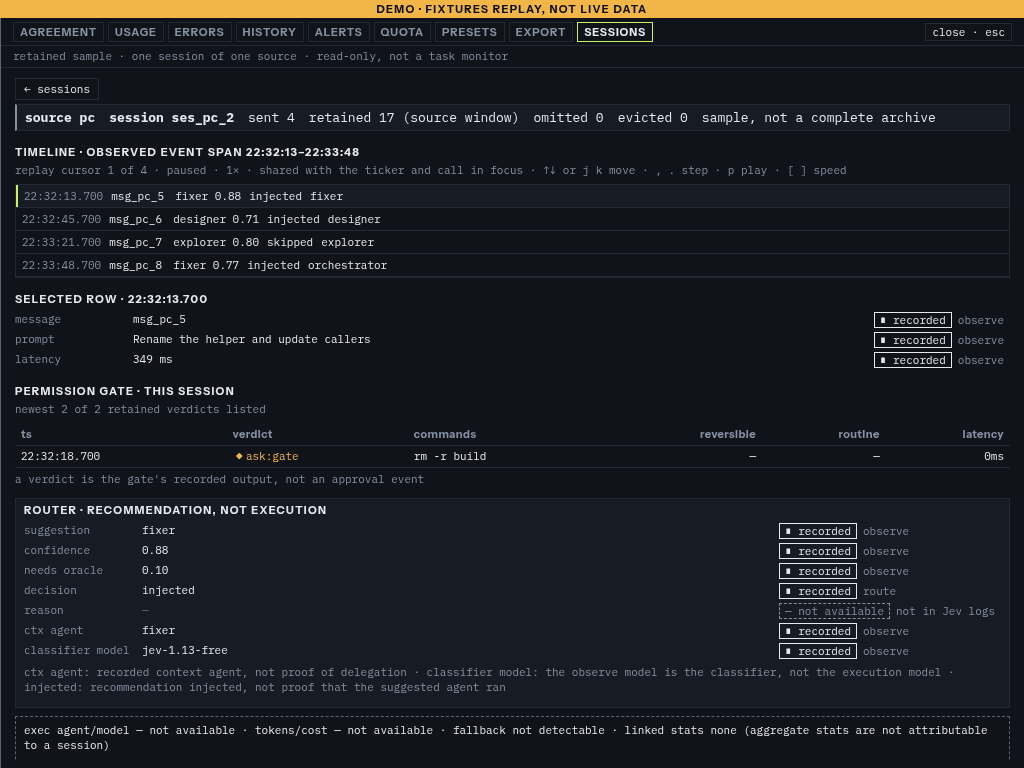
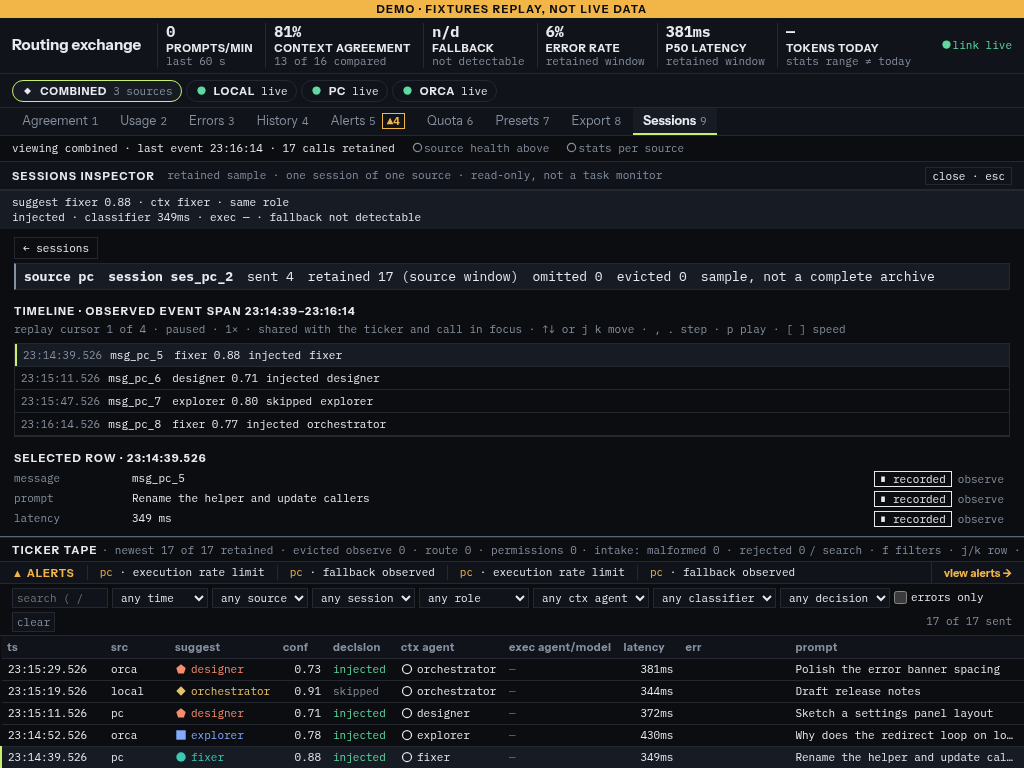
docs: Sessions inspector keeps the chrome visible; recapture m43 (#43)
Remove the covering-header deviation, record measured stage-panel geometry and
the reverted drawer widths, replace the m43-* captures.

diff --git a/docs/DESIGN.md b/docs/DESIGN.md
@@ -138,14 +138,14 @@ Status: **approved contract (maintainer decisions of 2026-11-08 in #41), impleme
 
 | Element | 1440×900 | 1024×768 |
 | --- | --- | --- |
-| Placement | the existing right-side overlay mechanism (same open/close, `Esc`, focus return), in its wide form | same mechanism, full stage width |
+| Placement | a panel laid over the stage only (below the chrome, above the ticker); same open/close, `Esc`, focus return | same, full stage width |
 | Panes | two: list ~280 px proposed (**440 px implemented**), detail the rest | one at a time: list, then detail with a `← sessions` back control; `Esc` goes detail → list → close |
 | Chrome kept | DEMO band, header, source bar, views nav, scope strip and ticker stay visible and unchanged | same |
 | Scope header | 2 lines max, 11 px caps labels + 13 px values | 3 lines max; wraps, never truncates counts |
 | Row height | 22 px (timeline and list) | 22 px |
 | Overflow | list and detail scroll inside the panel; long session strings scroll horizontally, not ellipsis | same |
 
-The 640–720 px overlay width recorded in the M4 review does not fit two panes; the wide form is `min(1160px, 100vw)` (measured, see below). If it does not fit at 1024×768 without clipping a count, the single-pane rule above is the fallback, not a smaller font (floor stays 11 px).
+The 640–720 px drawer width recorded in the M4 review does not fit two panes, so the inspector is not a drawer: it takes the full stage width (measured, see below). If it does not fit at 1024×768 without clipping a count, the single-pane rule above is the fallback, not a smaller font (floor stays 11 px).
 
 ### Navigation decision (calculated from fonts and CSS; browser-measured in #43, see below)
 
@@ -222,11 +222,12 @@ This is a drawing in text, not a capture. Labelled DEMO mockups or screenshots r
 Measured with Playwright 1.64.1 driving `/usr/bin/chromium` 155 against `scripts/demo-exchange.ts` (anonymized fixtures, three sources, Alerts badge active as `▲4`) at 1440×900 and 1024×768, reduced motion on. Captures: `docs/screenshots/m43-{nav-alerts,sessions-list,sessions-detail,sessions-detail-lower,sessions-entry-s}-{1440x900,1024x768}.png`, reviewed against this file.
 
 - **Nav fit (the condition of the ninth-tab decision):** nine tabs sit on one row (no wrapping), the row's `scrollWidth` equals its `clientWidth` (1440 and 1024), the last tab's right edge is at **714 px** with the Alerts badge active, and the row stays 28 px. This is below the ≈ 745 px estimate, so the font arithmetic was conservative. The no-tab fallback is not needed.
-- **Overlay:** `#drawer-sessions` is `min(1160px, 100vw)` above 1280 px and `100vw` at 1280 px and below. At 1440 it is two panes: list **440 px** (not ~280: a 22 px row must hold source, session, first–last time, sent, error mark and permission count in words, and 280 px clipped them), detail 703 px. At 1024 one pane at a time with the `← sessions` back control. The single-pane switch is at **1280 px**, the existing narrow tier, not at 1024 only.
-- **Rows:** list and timeline rows measured 22 px, no clipped row content in the list, no horizontal overflow in the detail pane or the timeline. The scope header measured 2 lines at 1440 and 1 line at 1024 with DEMO data (budget 2 / 3); it wraps and never truncates counts. Long session strings scroll horizontally inside the list cell and wrap in the scope header.
-- **Drawer tabs and standard drawer width (changed from M4):** nine tabs share the drawer header with the close control. Measured: the strip needs 686 px at 1440 and 656 px at 1024. The M4 widths (720 px, 700 px at ≤1280) left 596 / 576 px and hid the last tabs behind a horizontal scroll, so **all standard drawers are now 810 px (780 px at ≤1280)**; the tab strip fits without scrolling in every drawer at both sizes (`scrollWidth` = `clientWidth`) and keeps horizontal scroll only as a fallback. This supersedes "640–720 px wide" in the M4 review for the Agreement, Usage, Errors, History, Alerts, Quota, Presets and Export drawers; their content is unchanged.
-- **Overlay geometry deviation:** the inspector reuses the existing drawer mechanism, which is a full-height right panel. While it is open it covers the right part of the header readouts and nav (and, at 1280 px and below, all of them), so the "Chrome kept" row of the layout table is **not** met literally: only the DEMO band and the left rail stay visible at 1440. The drawer's own tabs, `Esc` and the nav keys remain the way to switch views. Whether the inspector should instead sit below the chrome and above the ticker is an open question for the maintainer.
-- **Keyboard:** `Esc` goes detail → list → close with focus returning (row in the list, then the opener). Inside the detail, `↑ ↓`, `j k` and `, .` move the selected row and the shared replay cursor (and pause it); `p` and `[ ]` act on the same cursor; `r` is unchanged. In the list, `↑ ↓` move between rows. Key `s` works from the ticker or the event detail only, not while another drawer is open.
+- **Placement (revised after review):** the inspector is **not** a drawer. It is a panel laid over the stage only (`position: absolute; inset: 0` inside `main.stage`), so the DEMO band, header, source bar, views nav, scope strip and the whole ticker stay visible and clickable, as the "Chrome kept" row requires. Measured: panel 1440×468 at y 162 and 1024×376 at y 162 (the stage heights with an active alert; 490 / 398 without); ticker unchanged at 270 / 230 px with the alert row. `elementFromPoint` on the header, all nine nav tabs, the scope strip and the ticker title returns those elements, not the panel. The ticker stays interactive: selecting a ticker row opens the event detail and closes the inspector, like any other overlay.
+- **Call in focus:** the stage that normally shows it is covered, so the existing compact two-line readout (`CompactFocus`, same fields and text) is pinned at the top of the panel, on the replay cursor's event (or the selected / newest ticker call when nothing is replayed). It is never hidden, at both sizes (39 px).
+- **Panes:** at 1440 two panes, list **440 px** (not ~280: a 22 px row must hold source, session, first–last time, sent, error mark and permission count in words, and 280 px clipped them), detail the rest. One pane at a time with the `← sessions` back control at **1100 px and below** (contract: 1024; the in-between widths have room for two panes, so the cut sits just above 1024 and not at the 1280 tier).
+- **Rows and header:** list and timeline rows measured 22 px; no clipped list row content; no horizontal overflow in the detail pane or the timeline. The scope header wraps and never truncates counts. Long session strings scroll horizontally inside the list cell and wrap in the scope header. Lists and detail scroll inside the panel, so no half row can appear in the ticker or the nav.
+- **Drawers unchanged:** the other eight drawers keep their 720 / 700 px width and tab strip (eight tabs fit: strip 596 / 576 px, `scrollWidth` = `clientWidth`). Sessions has no entry in the drawer tabs, so from inside another drawer it is reached with key `9` or, while the nav is visible, its nav tab. An earlier iteration made Sessions a ninth drawer tab and widened every drawer to 810 / 780 px; that is reverted.
+- **Keyboard:** `Esc` goes detail → list → close with focus returning (row in the list, then the opener). Inside the detail, `↑ ↓`, `j k` and `, .` move the selected row and the shared replay cursor (and pause it); `p` and `[ ]` act on the same cursor; `r` is unchanged. In the list, `↑ ↓` move between rows. Key `s` works from the ticker or the event detail only, not while another drawer is open. The nav (including the Alerts badge) stays clickable while the inspector is open: another view's tab switches to that drawer, the Sessions tab toggles the inspector.
 - **Refinements to the text of this contract:** the empty permission text reads `no permission verdicts in the retained window for this session`; the enriched chip shows `＋ enriched · validated` without `via <field>` because the #42 model carries no source field for it (and nothing produces enriched yet); the `session` action in the event detail reads `session → inspect (s)`.
 
 ### Not in the inspector

diff --git a/docs/VERIFICATION.md b/docs/VERIFICATION.md
@@ -262,7 +262,7 @@ Browser evidence for the read-only Sessions inspector. Isolated Linux Chromium o
 - **Tooling:** no Playwright was installed for this check. An existing local module (`playwright` 1.64.1 in a pre-existing npx cache, not the 1.65.0 recorded for #33) was used through `PLAYWRIGHT_MODULE_PATH`, with the existing `/usr/bin/chromium` 155. The project manifest and lockfile are unchanged.
 - **Tests first:** `bun test test/sessions-view.test.tsx` before implementation → exit 1, **25 failed / 1 passed** (the passing one guards that replay and inspector use the same timeline order). Assertion failures, for example `Expected length: 9 / Received length: 8` for the nav buttons and a missing `data-action="session"` button. After implementation the same file passes: 26 tests.
 - **Existing tests updated, not weakened:** four assertions that counted eight views now count nine (`test/views.test.tsx`, `test/ui-shell.test.tsx`, `test/lane-bay.test.tsx`), and the ticker key hint reads `s session · 1-9 views`. The `scripts/verify-ui.mjs` Tab-traversal check now expects nine view buttons (its Tab loop limit moved from 12 to 13). This follows the #41 approval of a ninth view.
-- **Inspector check (throwaway script kept outside the repository):** `scripts/demo-exchange.ts --port 4791` (anonymized fixtures, three configured sources, loopback only, own temporary directory), then a 60-check script at both sizes with `reducedMotion: reduce` → **exit 0, 60 passed / 0 failed**, 0 console, page or network errors. It covers: nine tabs on one row with the Alerts badge active, no nav clipping; key `9` list with source ids; 22 px rows; no clipped list rows; scope header line budget; one selected timeline row; recorded and not-available chips; two panes at 1440, one pane with `← sessions` at 1024; `↑ ↓` and `k` moving the shared cursor with focus following; `Esc` detail → list → close with focus on the row and then the ticker; key `s` opening the selected event's session on that event with the replay cursor active; the event detail `session` action; no animation or transition inside the inspector; no execute/retry/approve/deny button and no success wording.
+- **Inspector check (throwaway script kept outside the repository):** `scripts/demo-exchange.ts --port 4791` (anonymized fixtures, three configured sources, loopback only, own temporary directory), then a 72-check script at both sizes with `reducedMotion: reduce` → **exit 0, 72 passed / 0 failed**, 0 console, page or network errors. It covers: the panel is laid exactly over the stage (1440×468 and 1024×376 at y 162) while `elementFromPoint` finds the header, all nine nav tabs, the scope strip and the ticker on top, the ticker keeps its height and Call in focus is visible; clicking the Alerts tab (badge) while the inspector is open switches to the Alerts drawer, and the Sessions tab opens and closes it; nine tabs on one row with the Alerts badge active, no nav clipping; key `9` list with source ids; 22 px rows; no clipped list rows; scope header line budget; one selected timeline row; recorded and not-available chips; two panes at 1440, one pane with `← sessions` at 1024; `↑ ↓` and `k` moving the shared cursor with focus following; `Esc` detail → list → close with focus on the row and then the ticker; key `s` opening the selected event's session on that event with the replay cursor active; the event detail `session` action; no animation or transition inside the inspector; no execute/retry/approve/deny button and no success wording.
 - **Existing harness:** canonical fixtures in a temporary copy, `node scripts/verify-ui.mjs --url http://127.0.0.1:4792 --state-dir <temporary copy> --screenshots-dir <temporary> --report <temporary> --exchange yes` → first run exit 1, 206/208 (the two Tab-traversal checks still expected eight view buttons); after the explicit update to nine, **exit 0, 208 passed / 0 failed / 0 skipped**. Owned servers were stopped; no listener remained on the ports used.
-- **Drawer tab strip:** a second throwaway script opened every drawer (keys `1`–`9`) at both sizes and compared the tab strip's `scrollWidth` with its `clientWidth`. At the old 720 / 700 px widths eight drawers overflowed (strip 676 / 640 px in 596 / 576 px), hiding the last tabs. Test first (`test/sessions-view.test.tsx`, drawer width ≥ 810 / 780 px) failed on `Expected: >= 810 / Received: 720`; after widening the standard drawers to 810 / 780 px all nine drawers fit at both sizes. The earlier `m33-*` captures show the previous 720 / 700 px drawers and were not re-taken.
+- **Revision after review (stage-only panel):** the first implementation reused the full-height drawer, which covered the header and nav, and widened the standard drawers to 810 / 780 px to fit nine tabs (measured: strip 676 px in a 596 px space, with a test failing on `Expected: >= 810 / Received: 720`). The panel was then moved inside the stage. Red first: four assertions failed on placement (`Expected: < 12193 / Received: 20831` for the panel inside `main.stage`, missing `aria-label="call in focus"`, `Expected length: 8 / Received length: 9` drawer tabs, missing 1100 px single-pane rules). Sessions is no longer a drawer tab, the drawers went back to 720 / 700 px, and a second throwaway script confirmed all eight drawers fit their tab strip at both sizes (596 / 596 and 576 / 576 px). The earlier `m33-*` captures therefore still show the right drawer widths.
 - **Limits:** the inspector's empty and unknown-session states, omission/eviction wording and link-down wording are covered by render tests, not by browser captures. Real disconnects (#24), other browsers, macOS, screen readers and new-user comprehension are not covered. Reduced motion was checked by emulation and computed styles; the inspector adds no motion.

diff --git a/docs/KNOWN_ISSUES.md b/docs/KNOWN_ISSUES.md
@@ -8,7 +8,7 @@ Ranked by impact; none prevents the documented fixture/local workflow.
 4. **History portability and scope.** Atomic no-overwrite publication requires hard links. Snapshot points retain their own ranges; they are not additive weekly deltas. Byte limits can omit individual snapshots, reported by source status. Exceptional OS file-close failures during refresh were not fault-injected.
 5. **Quota/preset coverage.** Limits are user-supplied and most standard-log quota/fallback values remain partial or unknown. Sampled preset-file selection is not proof that a running process used it; overrides and changes/reversions between polls can be missed. Replay covers retained/transmitted events, not a durable complete session archive.
 6. **External deployment checks not performed.** Linux/Bun/Chromium were exercised. macOS runtime, real SSH/Tailscale connectivity, real desktop notifications, actual systemd installation and registry publication were not. The PR bumps the package to 0.2.0 but does not publish, install services, merge or tag a release.
-7. **Sessions inspector: implemented (#43), with limits.** It can show only the retained, transmitted sample: it is not a complete session or archive, omitted/evicted rows cannot be attributed to a session, and the first-to-last event interval is not task duration. Execution agent/model, per-message tokens/cost and fallback stay unavailable (event execution fields are null; enrichment feeds analytics only). The enriched state exists in the chips but nothing feeds it yet, so no field is ever shown as enriched. Measured in isolated Linux Chromium against anonymized DEMO data only (nine tabs fit at 1024 px with the Alerts badge active; keys `9`, `s`, `Esc`, arrows and focus return exercised): not an accessibility audit, no other browser or OS, no screen reader, no real (non-fixture) sessions, no new-user comprehension test. Like the other drawers, the overlay covers the right part of the header and nav while open (see DESIGN, "Implementation notes").
+7. **Sessions inspector: implemented (#43), with limits.** It can show only the retained, transmitted sample: it is not a complete session or archive, omitted/evicted rows cannot be attributed to a session, and the first-to-last event interval is not task duration. Execution agent/model, per-message tokens/cost and fallback stay unavailable (event execution fields are null; enrichment feeds analytics only). The enriched state exists in the chips but nothing feeds it yet, so no field is ever shown as enriched. Measured in isolated Linux Chromium against anonymized DEMO data only (nine tabs fit at 1024 px with the Alerts badge active; keys `9`, `s`, `Esc`, arrows and focus return exercised): not an accessibility audit, no other browser or OS, no screen reader, no real (non-fixture) sessions, no new-user comprehension test. The inspector is a panel over the stage only: header, nav, scope strip and ticker stay visible, and Call in focus is repeated at its top because the stage is covered (see DESIGN, "Implementation notes"). Layout values that differ from the proposal: list 440 px (not ~280) and the single-pane cut at 1100 px (not exactly 1024).
 
 ## Additional v0.2 boundaries
 

diff --git a/CHANGELOG.md b/CHANGELOG.md
@@ -6,7 +6,7 @@ Format: [Keep a Changelog](https://keepachangelog.com/en/1.1.0/). Versioning: [S
 ## [Unreleased]
 
 ### Added
-- Read-only **Sessions inspector** as the ninth view (key `9`): a per-source session list (source id on each row in the combined view), and a session detail with a scope header that says it is a sample, an ordered timeline that shares the existing replay cursor, the selected row's fields with recorded / enriched / not-available chips (glyph, word and border pattern), this session's permission verdicts (same data and handling as Errors) and a fixed `ROUTER · recommendation, not execution` block. Entry from a selected event with key `s` or the event detail `session` action; `Esc` goes detail → list → close; a `← sessions` control replaces the two panes at 1280 px and below. No execute, retry, approve or deny control and no success wording. `sessionTimeline` now has one definition shared by replay, the event detail and the inspector (#43, #4).
+- Read-only **Sessions inspector** as the ninth view (key `9`): a per-source session list (source id on each row in the combined view), and a session detail with a scope header that says it is a sample, an ordered timeline that shares the existing replay cursor, the selected row's fields with recorded / enriched / not-available chips (glyph, word and border pattern), this session's permission verdicts (same data and handling as Errors) and a fixed `ROUTER · recommendation, not execution` block. Entry from a selected event with key `s` or the event detail `session` action; `Esc` goes detail → list → close; a `← sessions` control replaces the two panes at 1100 px and below. It is a panel over the stage only, so the header, nav, scope strip and ticker stay visible and Call in focus stays pinned at its top. No execute, retry, approve or deny control and no success wording. `sessionTimeline` now has one definition shared by replay, the event detail and the inspector (#43, #4).
 - Pure session inspection model over retained evidence: `inspectSession` and `listSessions` expose ordered events, linked permissions, errors, scope coverage and per-field evidence state without claiming completeness. Sessions are isolated by source, unknown sessions return empty results, and execution/usage fields are always marked unavailable (#42).
 
 ### Changed

diff --git a/docs/PLAN.md b/docs/PLAN.md
@@ -2,7 +2,7 @@
 
 ## Sessions inspector view (#43)
 
-- [x] Render the read-only Sessions inspector per the approved #41 contract: ninth view (key `9`), session list, detail with scope header, replay-cursor timeline, three evidence-state chips, session-linked permission verdicts, `ROUTER · recommendation, not execution` block, entry from a selected event (`s` / `session` action) and `Esc` detail → list → close. Tests first (26 new render/behavior tests; red run 25 failed / 1 passed before implementation). Isolated Linux Chromium measurement and DEMO captures `docs/screenshots/m43-*` at 1440×900 and 1024×768, including the nine-tab nav fit with the Alerts badge active. No new colour, font, motion or dependency; no task identity, #5 or aggregate-stat allocation.
+- [x] Render the read-only Sessions inspector per the approved #41 contract: ninth view (key `9`), session list, detail with scope header, replay-cursor timeline, three evidence-state chips, session-linked permission verdicts, `ROUTER · recommendation, not execution` block, entry from a selected event (`s` / `session` action) and `Esc` detail → list → close. Tests first (26 new render/behavior tests; red run 25 failed / 1 passed before implementation). Isolated Linux Chromium measurement and DEMO captures `docs/screenshots/m43-*` at 1440×900 and 1024×768, including the nine-tab nav fit with the Alerts badge active; the inspector is a stage-only panel so the chrome and ticker stay visible. No new colour, font, motion or dependency; no task identity, #5 or aggregate-stat allocation.
 
 ## Session inspection model (#42)
 
